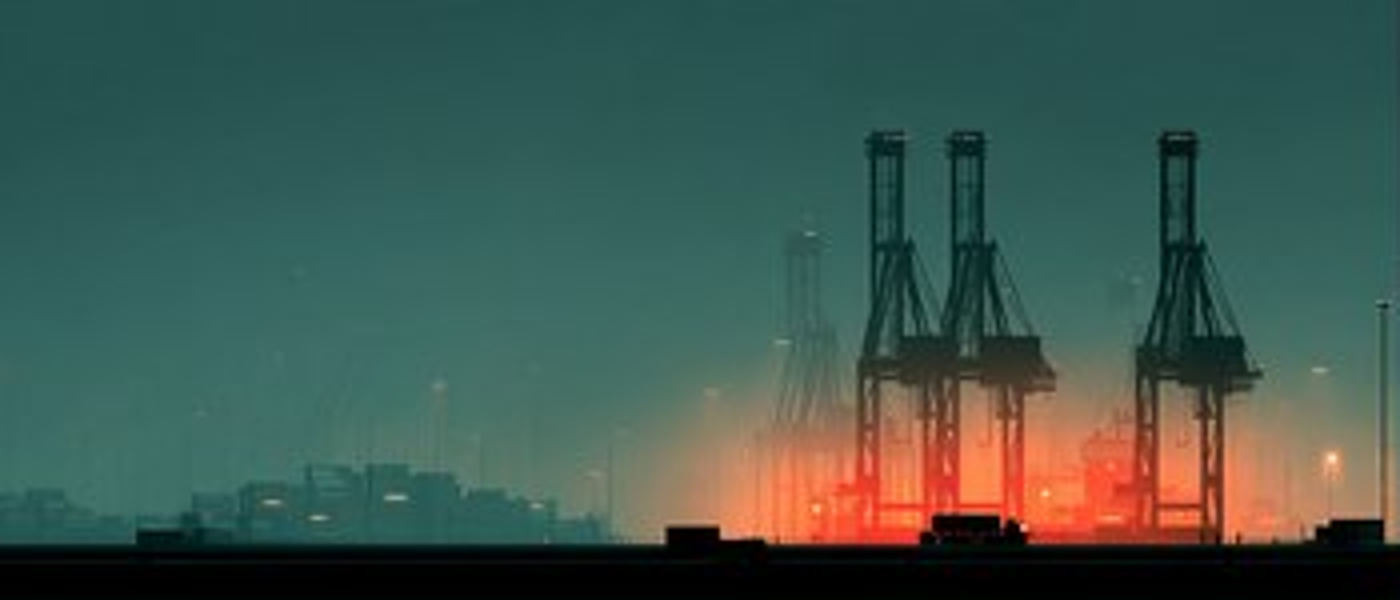
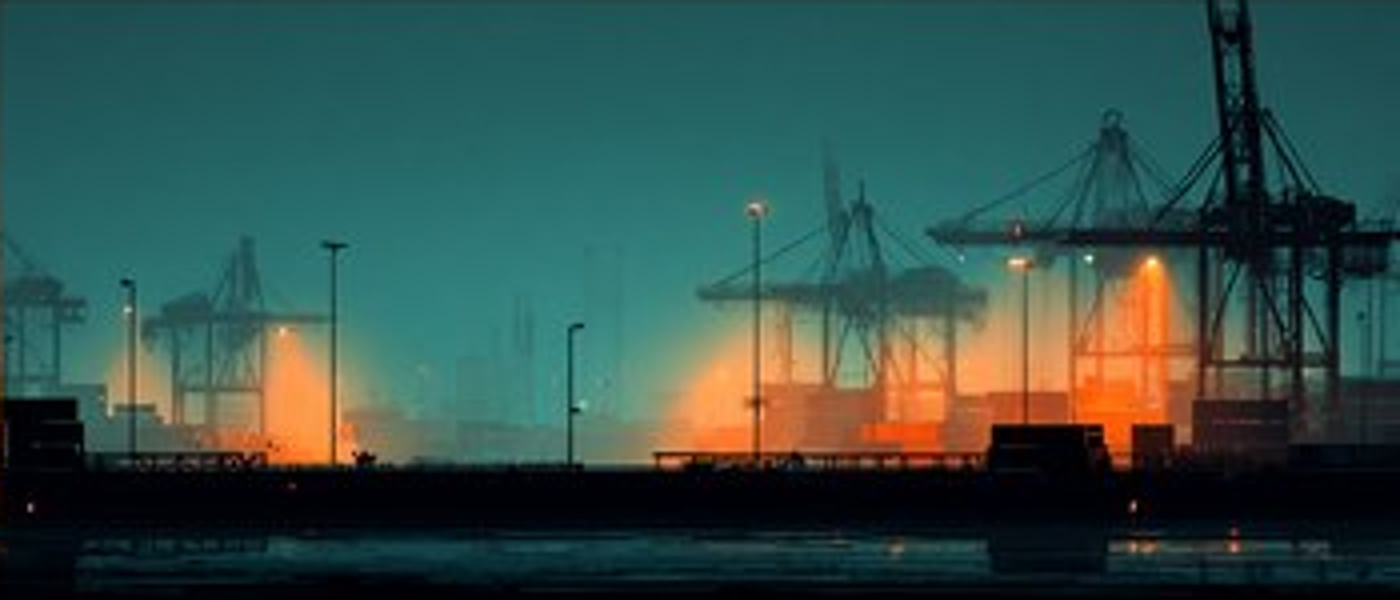
Фоны: доки=#4, ядро=#3 (выбор Рамиля) — v0.8.5
Claude-Session: https://claude.ai/code/session_01AYMMMg1UWftChvtdBg39Aq

diff --git a/docs/play/index.html b/docs/play/index.html
@@ -111,7 +111,7 @@ body {
 
 		<script src="index.js"></script>
 		<script>
-const GODOT_CONFIG = {"args":[],"canvasResizePolicy":2,"emscriptenPoolSize":8,"ensureCrossOriginIsolationHeaders":true,"executable":"index","experimentalVK":false,"fileSizes":{"index.pck":13702368,"index.wasm":39509339},"focusCanvas":true,"gdextensionLibs":[],"godotPoolSize":4};
+const GODOT_CONFIG = {"args":[],"canvasResizePolicy":2,"emscriptenPoolSize":8,"ensureCrossOriginIsolationHeaders":true,"executable":"index","experimentalVK":false,"fileSizes":{"index.pck":13673152,"index.wasm":39509339},"focusCanvas":true,"gdextensionLibs":[],"godotPoolSize":4};
 const GODOT_THREADS_ENABLED = false;
 const engine = new Engine(GODOT_CONFIG);
 